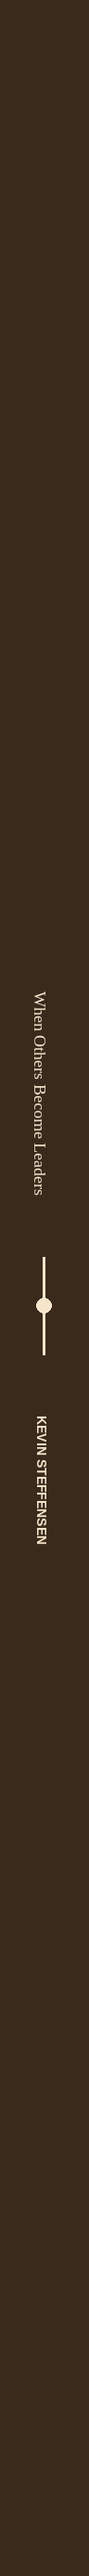
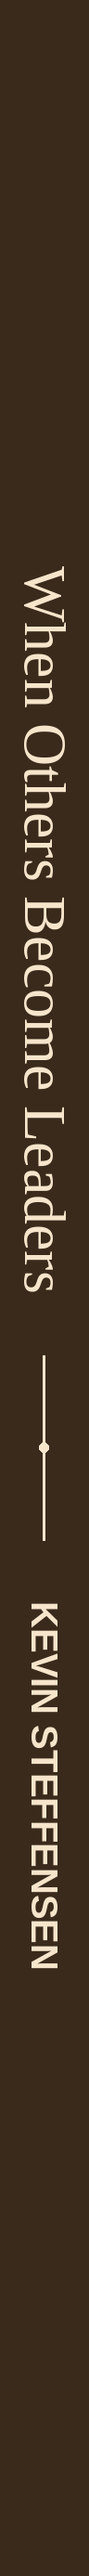
Fix When Others Become Leaders IngramSpark barcode reserve (#435)
Regenerate the back panel with a 1.75×1.0 in pure-white clear area
matching the Observer Patterns / EKL fix, before Ingram premedia
rejects the oversized cream box.

Changed region(s): [[0.2812, 0.2169, 0.75, 0.7748], [0.6875, 0.4029, 0.7188, 0.4339]]

diff --git a/books/when-others-become-leaders/assets/ingramspark/README.md b/books/when-others-become-leaders/assets/ingramspark/README.md
@@ -5,7 +5,7 @@ Production source assets for `assembled-raster-wrap` (not website covers). Deriv
 title uploaded to IngramSpark (2026-07); `book.yml` status is `production-approved`.
 
 ```
-back.png          # 1838×2775 @ 300 ppi — atmosphere + 3-line back copy + barcode reserve
+back.png          # 1838×2775 @ 300 ppi — atmosphere + 3-line back copy + 1.75×1.0 in white barcode reserve
 spine-source.png  # wider labeled master for page-count recrops (title/author centered)
 spine.png         # 96×2775 @ 300 ppi — dark brown spine + cream title/author (128 pages)
 front.png         # 1838×2775 @ 300 ppi — upscaled cover fitted into trim+bleed
